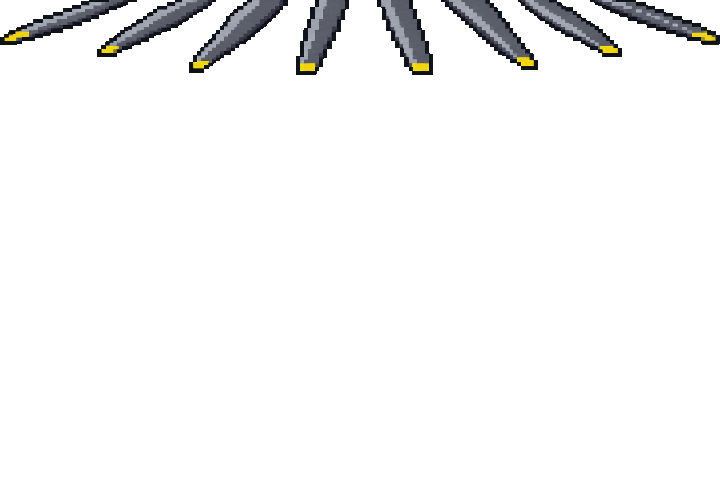
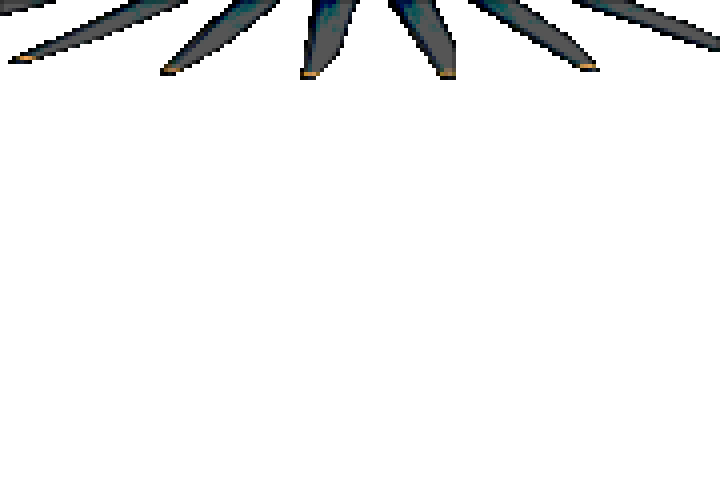
EXITROW: revised rotor blades, jet wing red lights at sunset/night
Rebuilt from the user's revised WINGS-8-BIT-RETRO-OVERLAY.psd: new
BLADES1-3, the Chopper Overlay layer is now the heli_window source, and
Jet Wing Red Lights -> wing_jet_lights.png, drawn untinted over the
tinted jet wing once lighting.lights_on > 0.1 (sun under ~3 deg).
build_exitrow_art.py now renders hidden layers too (the Cessna) and
accepts the .png-suffixed blade layer names.

Changed region(s): [[0.3972, 0.0, 1.0, 0.1875], [0.0, 0.0, 0.3972, 0.1562]]

diff --git a/exitrow.py b/exitrow.py
@@ -18,7 +18,9 @@ flickering through three frames under the user's chopper window matte
 (heli_window.png, from CHOPPER-WINDOW-MATTE-W-SLIDE.png, alpha cut at
 50% for a colorkey blit). The art is drawn as the port window;
 starboard is the same art mirrored. The wings are tinted with the sky's
-color as the light changes, down to dark gray at night (tint_wing).
+color as the light changes, down to dark gray at night (tint_wing); from
+sunset on, the jet wing's red lights (wing_jet_lights.png) are lit over
+it, untinted.
 
 With nothing to ride (AIR METAL in standby, or not running), the window
 shows the aircraft parked at a gate (gate.py).
@@ -96,6 +98,7 @@ LINK_TIMEOUT_SEC = 6.0  # no answer from AIR METAL this long: it's not there
 EXIT_GOTO_HOME = 42  # see STRINGS/SCRUTE: Home hands off to the app menu
 COLORKEY = (255, 0, 255)
 TINTED_ART = ("wing_jet", "wing_cessna")
+WING_LIGHTS_ON = 0.1  # lighting.lights_on above this (sun under ~3 deg): the jet's red lights are lit
 WING_SKY_TINT = 0.5  # how far the wings take on the sky's hue (0 = none, 1 = multiplied by it)
 WING_NIGHT_GRAY = 0.3  # the darkest the wings get: dark gray, not black
 NOTE_FG, NOTE_EDGE = (255, 220, 0), (255, 165, 0)
@@ -323,7 +326,9 @@ class App:
             self.view.set_props(windsock.build(self.s["windsock_height_m"], self.s["windsock_wind_from"]))
         flip = self.side == "starboard"
         self.art = {k: load_overlay(k, flip) for k in
-                    ("wing_jet", "wing_cessna", "heli_window", "blades1", "blades2", "blades3")}
+                    ("wing_jet", "wing_jet_lights", "wing_cessna", "heli_window",
+                     "blades1", "blades2", "blades3")}
+        self.wing_lights = False
         self.art_src = {k: load_art_source(k, flip) for k in TINTED_ART}
         # What each kind of window hides of the view (blades flicker, so only
         # the window matte counts for helicopters).
@@ -432,6 +437,7 @@ class App:
         elev, az = daylight.sun_position(t, self.s["lat"], self.s["lon"])
         lighting = daylight.lighting_at(elev, az)
         self.view.set_lighting(lighting, self.world)
+        self.wing_lights = lighting.lights_on > WING_LIGHTS_ON
         tint = wing_tint(lighting)
         last = getattr(self, "wing_tint", None)
         if last is None or np.abs(tint - last).max() > 0.004:  # all day long it doesn't change
@@ -439,12 +445,15 @@ class App:
             self.wing_tinted = {}  # retinted on next use, only the wing on screen (~75 ms each on a 3B+)
 
     def wing(self, name):
-        """A wing overlay in the current sky tint. A fresh surface is swapped
-        in whole, so the presenter thread never blits a half-tinted wing."""
+        """A wing's overlays: the art in the current sky tint (a fresh surface
+        swapped in whole, so the presenter thread never blits a half-tinted
+        wing), plus the jet's lit red lights from sunset on."""
         if not self.wing_tinted.get(name):
             self.art[name] = tint_wing(self.art_src[name], self.wing_tint)
             self.wing_tinted[name] = True
-        return self.art[name]
+        if name == "wing_jet" and self.wing_lights:
+            return [self.art[name], self.art["wing_jet_lights"]]
+        return [self.art[name]]
 
     # -- what to show ------------------------------------------------------
 
@@ -505,7 +514,7 @@ class App:
             overlays = [self.art[f"blades{self.blade_i + 1}"], self.art["heli_window"]]
             self.blade_i = (self.blade_i + 1) % 3
         else:
-            overlays = [self.wing("wing_cessna" if kind == "cessna" else "wing_jet")]
+            overlays = self.wing("wing_cessna" if kind == "cessna" else "wing_jet")
         self.presenter.submit(self.view.surface, overlays)
         self.gate_ready = False
 
@@ -524,7 +533,7 @@ class App:
         self.view.set_camera(x, gate.WINDOW_HEIGHT_M, z, (heading + self.sgn * 90) % 360, -GATE_LOOK_DOWN, 0.0)
         self.view.render(self.world)
         gate.draw(self.view, gx, gz, heading)
-        self.presenter.submit(self.view.surface, [self.wing("wing_jet")], self.note(), keep=True)
+        self.presenter.submit(self.view.surface, self.wing("wing_jet"), self.note(), keep=True)
         self.gate_ready = True
         self.gate_drawn_at = now
 

diff --git a/tools/build_exitrow_art.py b/tools/build_exitrow_art.py
@@ -6,9 +6,11 @@
 The PSD is 720x480, drawn as the PORT window (the starboard window is the
 same art flipped left-right at run time). Layers used:
   Jet Wing, Cessna Wing   wing + the rounded black window frame, together
-  BLADES1..3              rotor blades along the top, no frame
-Written: wing_jet.png, wing_cessna.png, blades1-3.png (RGBA, full frame),
-plus frame.png -- the window frame alone, for helicopters (blades go
+  Jet Wing Red Lights     the jet wing's lit red lights (sunset/night, untinted)
+  BLADES1..3(.png)        rotor blades along the top
+  Chopper Overlay         the helicopter window matte (over the blades)
+Written: wing_jet.png, wing_jet_lights.png, wing_cessna.png, blades1-3.png,
+heli_window.png (RGBA, full frame, alpha cut at 50%), plus frame.png -- the window frame alone, for helicopters (blades go
 under it). The frame comes from the jet layer's left edge, where nothing
 but frame is drawn, mirrored to the right. (Helicopters show the blades
 with no frame since 2026-11-25; frame.png is kept for trying it again.)
@@ -28,14 +30,16 @@ from psd_tools import PSDImage
 
 W, H = 720, 480
 SPLASH_SHOWN_W = 600
-LAYERS = {"Jet Wing": "wing_jet", "Cessna Wing": "wing_cessna",
-          "BLADES1": "blades1", "BLADES2": "blades2", "BLADES3": "blades3"}
+LAYERS = {"Jet Wing": "wing_jet", "Jet Wing Red Lights": "wing_jet_lights", "Cessna Wing": "wing_cessna",
+          "BLADES1": "blades1", "BLADES2": "blades2", "BLADES3": "blades3",
+          "Chopper Overlay": "heli_window"}
 OUT = os.path.join(os.path.dirname(os.path.dirname(os.path.abspath(__file__))), "exitrow_art")
 
 
 def full_frame(layer):
     """A layer on a transparent 720x480 canvas (layers may hang off the edges)."""
     canvas = Image.new("RGBA", (W, H), (0, 0, 0, 0))
+    layer.visible = True  # hidden layers (often the Cessna) composite empty otherwise
     img = layer.composite(force=True).convert("RGBA")
     x0, y0 = layer.bbox[:2]
     canvas.alpha_composite(img, (max(0, x0), max(0, y0)), (max(0, -x0), max(0, -y0)))
@@ -64,7 +68,7 @@ def main():
     os.makedirs(OUT, exist_ok=True)
     found = {}
     for layer in psd:
-        name = LAYERS.get(layer.name)
+        name = LAYERS.get(layer.name.removesuffix(".png"))
         if name:
             img = full_frame(layer)
             # Hard edges only: the Pi blits these colorkeyed.
